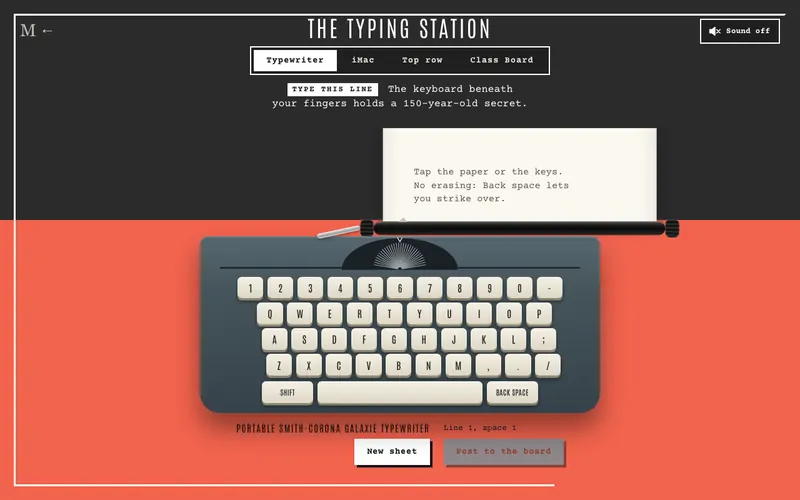
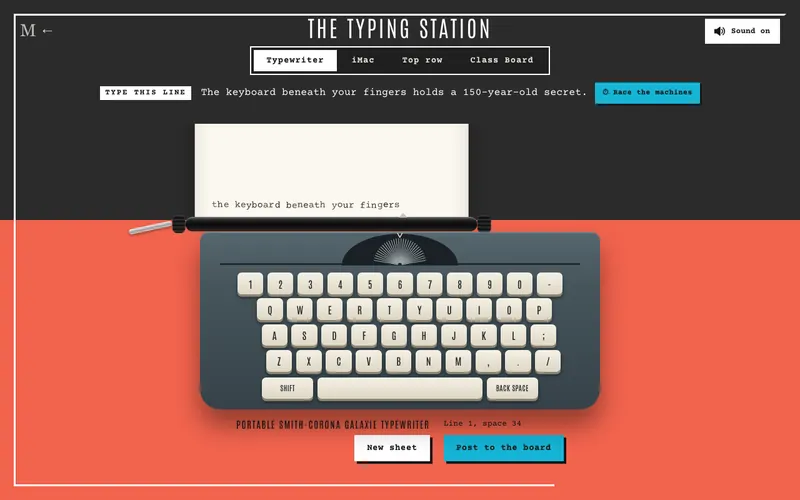
Room cards: screenshots for Egypt's six rooms, and fresh shots of rooms changed today
Egypt's cards switch from typographic emblems to 800x500 webp screenshots
of each room, with alt text and no credit line. Re-shot to show the current
rooms: moon microscope, fear-lab, perception lab, optical toys, victorian
inventions, holocaust Never Forget, america-250 sign, black-history
timeline, typing station and the three In Their Hands rooms (Who Do You
See? and Who Gets Remembered? came out identical). Alt text updated where
the picture changed.

Changed region(s): [[0.125, 0.15, 0.875, 0.96], [0.875, 0.03, 1.0, 0.09]]

diff --git a/app/exhibitions/egypt/egypt.ts b/app/exhibitions/egypt/egypt.ts
@@ -172,47 +172,47 @@ export const EGYPT: ExhibitionConfig<'poster1' | 'poster2'> = {
       title: 'Artifacts',
     },
   ],
-  // The rooms open from the display case (its Interactives). Each card sets a
-  // short typographic emblem until it has a picture of the room itself.
+  // The rooms open from the display case (its Interactives), each card with a
+  // picture of the room itself (public/exhibitions/egypt/rooms/).
   interactives: [
     {
       href: '/exhibitions/egypt/hieroglyph-name',
-      emblem: 'Your name',
+      image: { src: '/exhibitions/egypt/rooms/hieroglyph-name.webp', alt: 'The Your Name in Hieroglyphs room: the name Cleopatra in gold signs inside a cartouche, each sign above its letter' },
       label: 'Interactive',
       title: 'Your Name in Hieroglyphs',
       subtitle: 'Write your name in a cartouche, and print it',
     },
     {
       href: '/exhibitions/egypt/rosetta-stone',
-      emblem: '196 BC',
+      image: { src: '/exhibitions/egypt/rooms/rosetta-stone.webp', alt: 'The Rosetta Stone Decoder room: the dark stone carved with its three scripts, beside the story of the one decree' },
       label: 'Interactive',
       title: 'The Rosetta Stone Decoder',
       subtitle: 'Three scripts, and two royal names to crack',
     },
     {
       href: '/exhibitions/egypt/tomb',
-      emblem: 'Torchlight',
+      image: { src: '/exhibitions/egypt/rooms/tomb.webp', alt: 'The Tomb Explorer room: a torch’s circle of light on a painted tomb wall in the dark' },
       label: 'Interactive',
       title: 'Tomb Explorer',
       subtitle: 'Light the painted walls of a dark tomb',
     },
     {
       href: '/exhibitions/egypt/mummification',
-      emblem: '70 days',
+      image: { src: '/exhibitions/egypt/rooms/mummification.webp', alt: 'The Mummification, Step by Step room: a body on the embalmers’ table, with the four canopic jars beneath it' },
       label: 'Interactive',
       title: 'Mummification, Step by Step',
       subtitle: 'Natron, canopic jars, linen and amulets',
     },
     {
       href: '/exhibitions/egypt/weighing-of-the-heart',
-      emblem: 'Maat',
+      image: { src: '/exhibitions/egypt/rooms/weighing-of-the-heart.webp', alt: 'The Weighing of the Heart room: the heart and the feather on the scales before Anubis, Thoth and Ammit, and the first deed to judge' },
       label: 'Interactive',
       title: 'The Weighing of the Heart',
       subtitle: 'Help Ani before the judges of the afterlife',
     },
     {
       href: '/exhibitions/egypt/amulet',
-      emblem: 'Ankh',
+      image: { src: '/exhibitions/egypt/rooms/amulet.webp', alt: 'The Design an Amulet room: a gold scarab amulet carved with an ankh and a wedjat eye, beside the shapes, materials and symbols to choose' },
       label: 'Interactive',
       title: 'Design an Amulet',
       subtitle: 'Choose its symbols, learn their meanings, and print it',

diff --git a/__tests__/components/EgyptRooms.test.tsx b/__tests__/components/EgyptRooms.test.tsx
@@ -112,16 +112,18 @@ describe('the words and the pictures', () => {
   it('uses no Leonardo.Ai pictures and no photographs of the installation', () => {
     const egypt = JSON.stringify(EGYPT.interactives);
     expect(egypt).not.toMatch(/Leonardo/i);
-    for (const r of EGYPT.interactives!) expect(r.image).toBeUndefined();
+    // Each card's picture is a screenshot of the room on the site, not a photograph.
+    for (const r of EGYPT.interactives!) expect(r.image!.src).toBe(`/exhibitions/egypt/rooms/${r.href.split('/').pop()}.webp`);
   });
 });
 
 describe('the display case’s interactives', () => {
-  it('lists the six rooms, each with a typographic emblem and a page', () => {
+  it('lists the six rooms, each with a screenshot of the room, its alt text, and a page', () => {
     expect(EGYPT.interactives!.map((r) => r.href)).toEqual(ROOMS);
     for (const r of EGYPT.interactives!) {
-      expect(r.emblem && r.emblem.length).toBeTruthy();
-      expect(r.emblem!.length).toBeLessThanOrEqual(10);
+      expect(r.emblem).toBeUndefined();
+      expect(existsSync(join(ROOT, 'public', r.image!.src))).toBe(true);
+      expect(r.image!.alt).toContain(`${r.title.replace(/^The /, '')} room: `);
       expect(existsSync(join(ROOT, 'app', r.href.replace(/^\//, ''), 'page.tsx'))).toBe(true);
       expect(existsSync(join(ROOT, 'app', r.href.replace(/^\//, ''), 'layout.tsx'))).toBe(true);
     }

diff --git a/app/exhibitions/black-history/blackHistory.ts b/app/exhibitions/black-history/blackHistory.ts
@@ -143,7 +143,7 @@ export const BLACK_HISTORY: ExhibitionConfig<'poster1' | 'poster2'> = {
     // with its source (timeline/timelineStops.ts).
     {
       href: '/exhibitions/black-history/timeline',
-      image: { src: '/exhibitions/black-history/rooms/timeline.webp', alt: 'The Black Barbie Timeline room: 1967 and Francie in a ringed circle on the lime ground, the years along a road below' },
+      image: { src: '/exhibitions/black-history/rooms/timeline.webp', alt: 'The Black Barbie Timeline room: 1967 and Francie in a ringed circle on the lime ground, a right guess, and the years still to find along a road below' },
       label: 'Interactive',
       title: 'The Black Barbie Timeline',
       subtitle: 'From Francie to “So In Style”',

diff --git a/app/exhibitions/writing-revolution/writingRevolution.ts b/app/exhibitions/writing-revolution/writingRevolution.ts
@@ -138,7 +138,7 @@ export const WRITING_REVOLUTION: ExhibitionConfig<'poster1' | 'poster2'> = {
   interactives: [
     {
       href: '/exhibitions/writing-revolution/typing-station',
-      image: { src: '/exhibitions/writing-revolution/rooms/typing-station.webp', alt: 'The Typing Station room: a typewriter’s keys under a sheet of paper on the coral wall' },
+      image: { src: '/exhibitions/writing-revolution/rooms/typing-station.webp', alt: 'The Typing Station room: a typewriter on the coral wall, its first line typed on the sheet of paper' },
       label: 'Interactive',
       title: 'The Typing Station',
       subtitle: 'The same line on a typewriter and an iMac',

diff --git a/app/exhibitions/fear-lab/fearLab.ts b/app/exhibitions/fear-lab/fearLab.ts
@@ -131,7 +131,7 @@ export const FEAR_LAB: ExhibitionConfig<'poster1' | 'poster2'> = {
   interactives: [
     {
       href: '/exhibitions/fear-lab/what-scares-you',
-      image: { src: '/exhibitions/fear-lab/rooms/what-scares-you.webp', alt: 'The What Scares You? room: five numbered fear boxes on a dark shelf under a torch beam' },
+      image: { src: '/exhibitions/fear-lab/rooms/what-scares-you.webp', alt: 'The What Scares You? room: five old boxes on a dark shelf, waiting to be picked, above a beating pulse line' },
       label: 'Interactive',
       title: 'What Scares You?',
       subtitle: 'The fear boxes, known or unknown, and the rustling bushes',

diff --git a/app/exhibitions/moon/moon.ts b/app/exhibitions/moon/moon.ts
@@ -211,7 +211,7 @@ export const MOON: ExhibitionConfig<'poster1' | 'poster2'> = {
   interactives: [
     {
       href: '/exhibitions/moon/microscope',
-      image: { src: '/exhibitions/moon/rooms/microscope.webp', alt: 'The Under the Microscope room: moon dust in the round microscope view, beside its notes' },
+      image: { src: '/exhibitions/moon/rooms/microscope.webp', alt: 'The Under the Microscope room: orange glass beads from the Moon in the round microscope view, beside the focus knob, the lenses and their notes' },
       label: 'Interactive',
       title: 'Under the Microscope',
       subtitle: "Moon dust beside Earth's soil",
